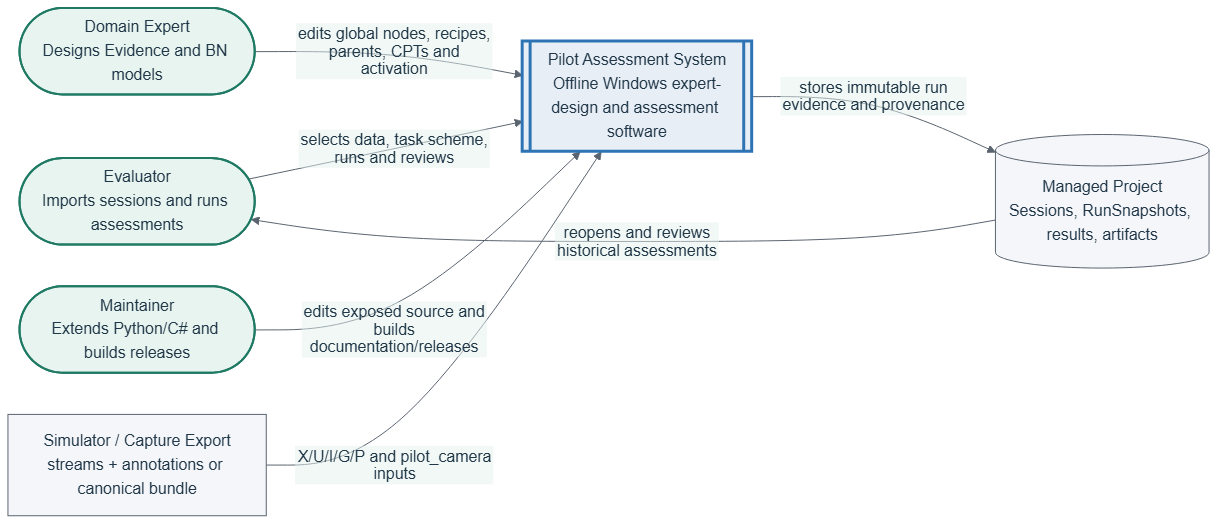
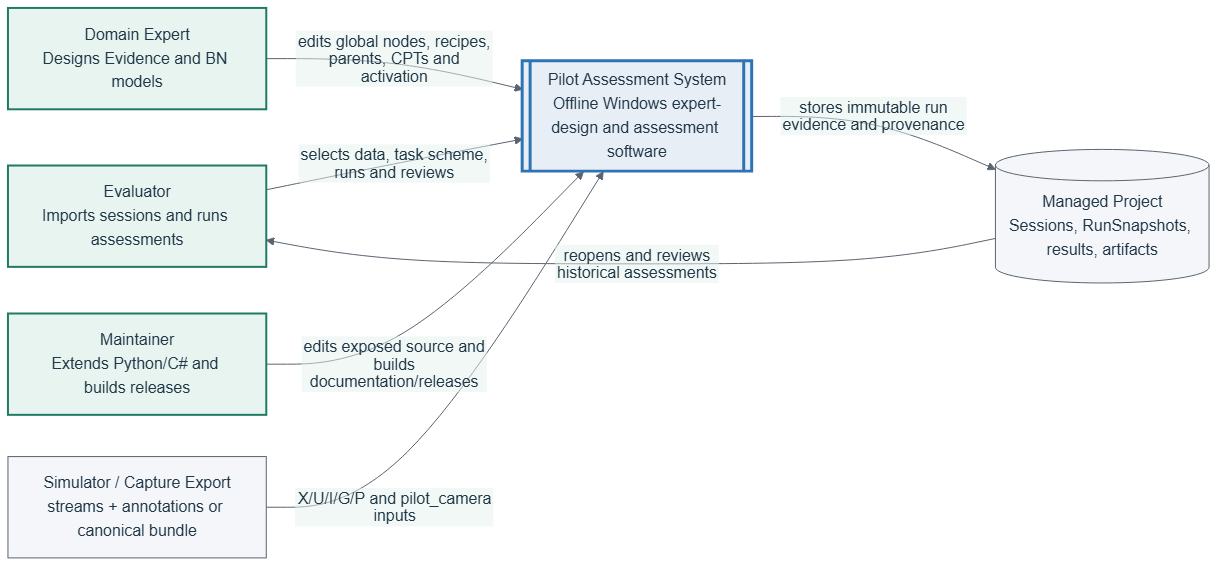
docs: add verified release candidate screenshots

diff --git a/tools/documentation/ui_source_identity.py b/tools/documentation/ui_source_identity.py
@@ -1,0 +1,68 @@
+"""Calculate the deterministic identity of the tracked WinUI source tree."""
+
+from __future__ import annotations
+
+import hashlib
+import subprocess
+import sys
+from pathlib import Path
+
+from manual_common import REPOSITORY_ROOT, DocumentationError, result_payload
+
+UI_SOURCE_ROOTS = (
+    "src/PilotAssessment.Desktop",
+    "src/PilotAssessment.Desktop.Core",
+)
+
+
+def calculate_ui_source_tree_sha256(repository_root: Path = REPOSITORY_ROOT) -> str:
+    """Hash tracked relative paths and their current worktree bytes in stable order."""
+
+    completed = subprocess.run(
+        ["git", "ls-files", "-z", "--", *UI_SOURCE_ROOTS],
+        cwd=repository_root,
+        check=False,
+        capture_output=True,
+    )
+    if completed.returncode != 0:
+        detail = completed.stderr.decode("utf-8", errors="replace").strip()
+        raise DocumentationError(f"cannot enumerate tracked UI source: {detail}")
+    relative_paths = sorted(
+        (value.decode("utf-8") for value in completed.stdout.split(b"\0") if value),
+        key=str.casefold,
+    )
+    if not relative_paths:
+        raise DocumentationError("tracked UI source tree is empty")
+
+    digest = hashlib.sha256()
+    for relative in relative_paths:
+        path = (repository_root / relative).resolve()
+        if repository_root.resolve() not in path.parents or not path.is_file():
+            raise DocumentationError(f"tracked UI source is missing: {relative}")
+        payload = path.read_bytes()
+        relative_bytes = relative.replace("\\", "/").encode("utf-8")
+        digest.update(len(relative_bytes).to_bytes(8, byteorder="big"))
+        digest.update(relative_bytes)
+        digest.update(len(payload).to_bytes(8, byteorder="big"))
+        digest.update(payload)
+    return digest.hexdigest()
+
+
+def main() -> int:
+    try:
+        identity = calculate_ui_source_tree_sha256()
+    except (DocumentationError, OSError) as error:
+        print(f"UI source identity failed: {error}", file=sys.stderr)
+        return 1
+    print(
+        result_payload(
+            algorithm="tracked-path-and-worktree-bytes-sha256-v1",
+            roots=list(UI_SOURCE_ROOTS),
+            ui_source_tree_sha256=identity,
+        )
+    )
+    return 0
+
+
+if __name__ == "__main__":
+    raise SystemExit(main())

diff --git a/tests/documentation/test_manual_pipeline.py b/tests/documentation/test_manual_pipeline.py
@@ -76,6 +76,24 @@ def test_master_manual_is_generated_from_all_eleven_released_module_sources() ->
     assert all(len(item["sha256"]) == 64 for item in modules)
 
 
+def test_c4_diagram_inputs_avoid_randomised_shapes_and_use_stable_ids() -> None:
+    config = read_json(DOCUMENTATION_TOOLS / "mermaid-config.json")
+
+    assert config["deterministicIds"] is True
+    assert config["deterministicIDSeed"] == "pilot-assessment-docs-v1"
+    for filename in ("c4-system-context.mmd", "c4-container.mmd"):
+        source = (
+            REPOSITORY_ROOT
+            / "docs"
+            / "product"
+            / "manuals"
+            / "assets"
+            / "diagrams"
+            / filename
+        ).read_text(encoding="utf-8")
+        assert '(["' not in source
+
+
 def test_registers_ten_existing_candidate_screenshots_without_capturing(
     tmp_path: Path,
 ) -> None:
@@ -87,6 +105,11 @@ def test_registers_ten_existing_candidate_screenshots_without_capturing(
         / "assets"
         / "screenshots"
         / "manifest.json"
+    )
+    assert all(
+        "\ufffd" not in str(item[field])
+        for item in source_manifest["screenshots"]
+        for field in ("caption", "alt_text")
     )
     manual_root = tmp_path / "manuals"
     manifest_path = manual_root / "assets" / "screenshots" / "manifest.json"

diff --git a/tools/documentation/docx_builder.py b/tools/documentation/docx_builder.py
@@ -777,6 +777,7 @@ class ManualDocxBuilder:
         index = 0
         list_stack: list[ListState] = []
         blockquote_depth = 0
+        aggregate_page_break_pending = False
         while index < len(tokens):
             token = tokens[index]
             token_type = token.type
@@ -789,6 +790,12 @@ class ManualDocxBuilder:
                 heading = headings[self._heading_cursor]
                 self._heading_cursor += 1
                 paragraph = self.document.add_paragraph(style=f"Heading {heading.level}")
+                if aggregate_page_break_pending:
+                    # A page-break-before property starts the next aggregate module on a
+                    # fresh page without creating an empty page when the previous module
+                    # already ended exactly at a page boundary.
+                    paragraph.paragraph_format.page_break_before = True
+                    aggregate_page_break_pending = False
                 self._render_inline(paragraph, inline)
                 _add_bookmark(paragraph, heading.bookmark, self._bookmark_id)
                 self._bookmark_id += 1
@@ -829,7 +836,7 @@ class ManualDocxBuilder:
             elif token_type == "paragraph_open":
                 inline = tokens[index + 1]
                 if inline.content.strip() == AGGREGATE_PAGE_BREAK:
-                    self.document.add_page_break()
+                    aggregate_page_break_pending = True
                     index += 3
                     continue
                 asset_match = ASSET_ONLY.fullmatch(inline.content.strip())